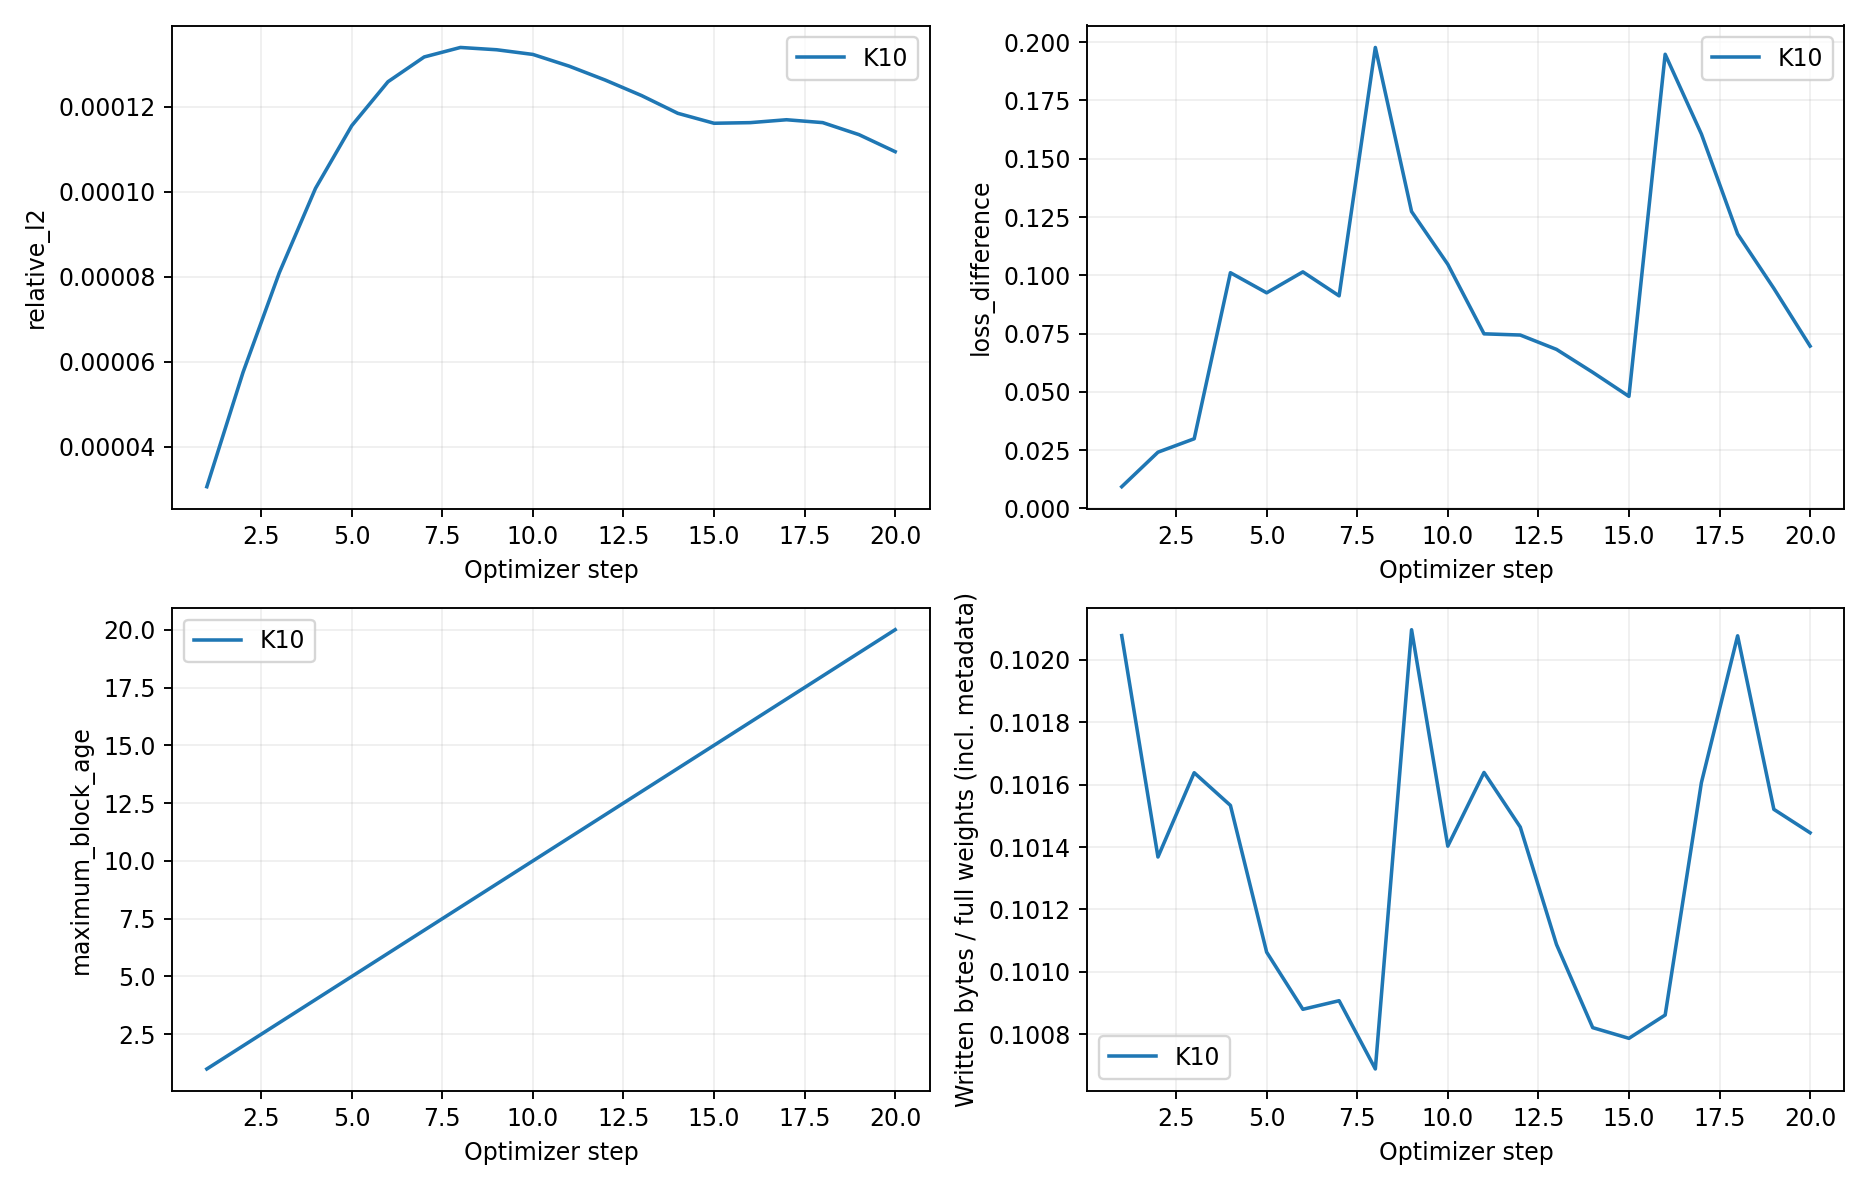
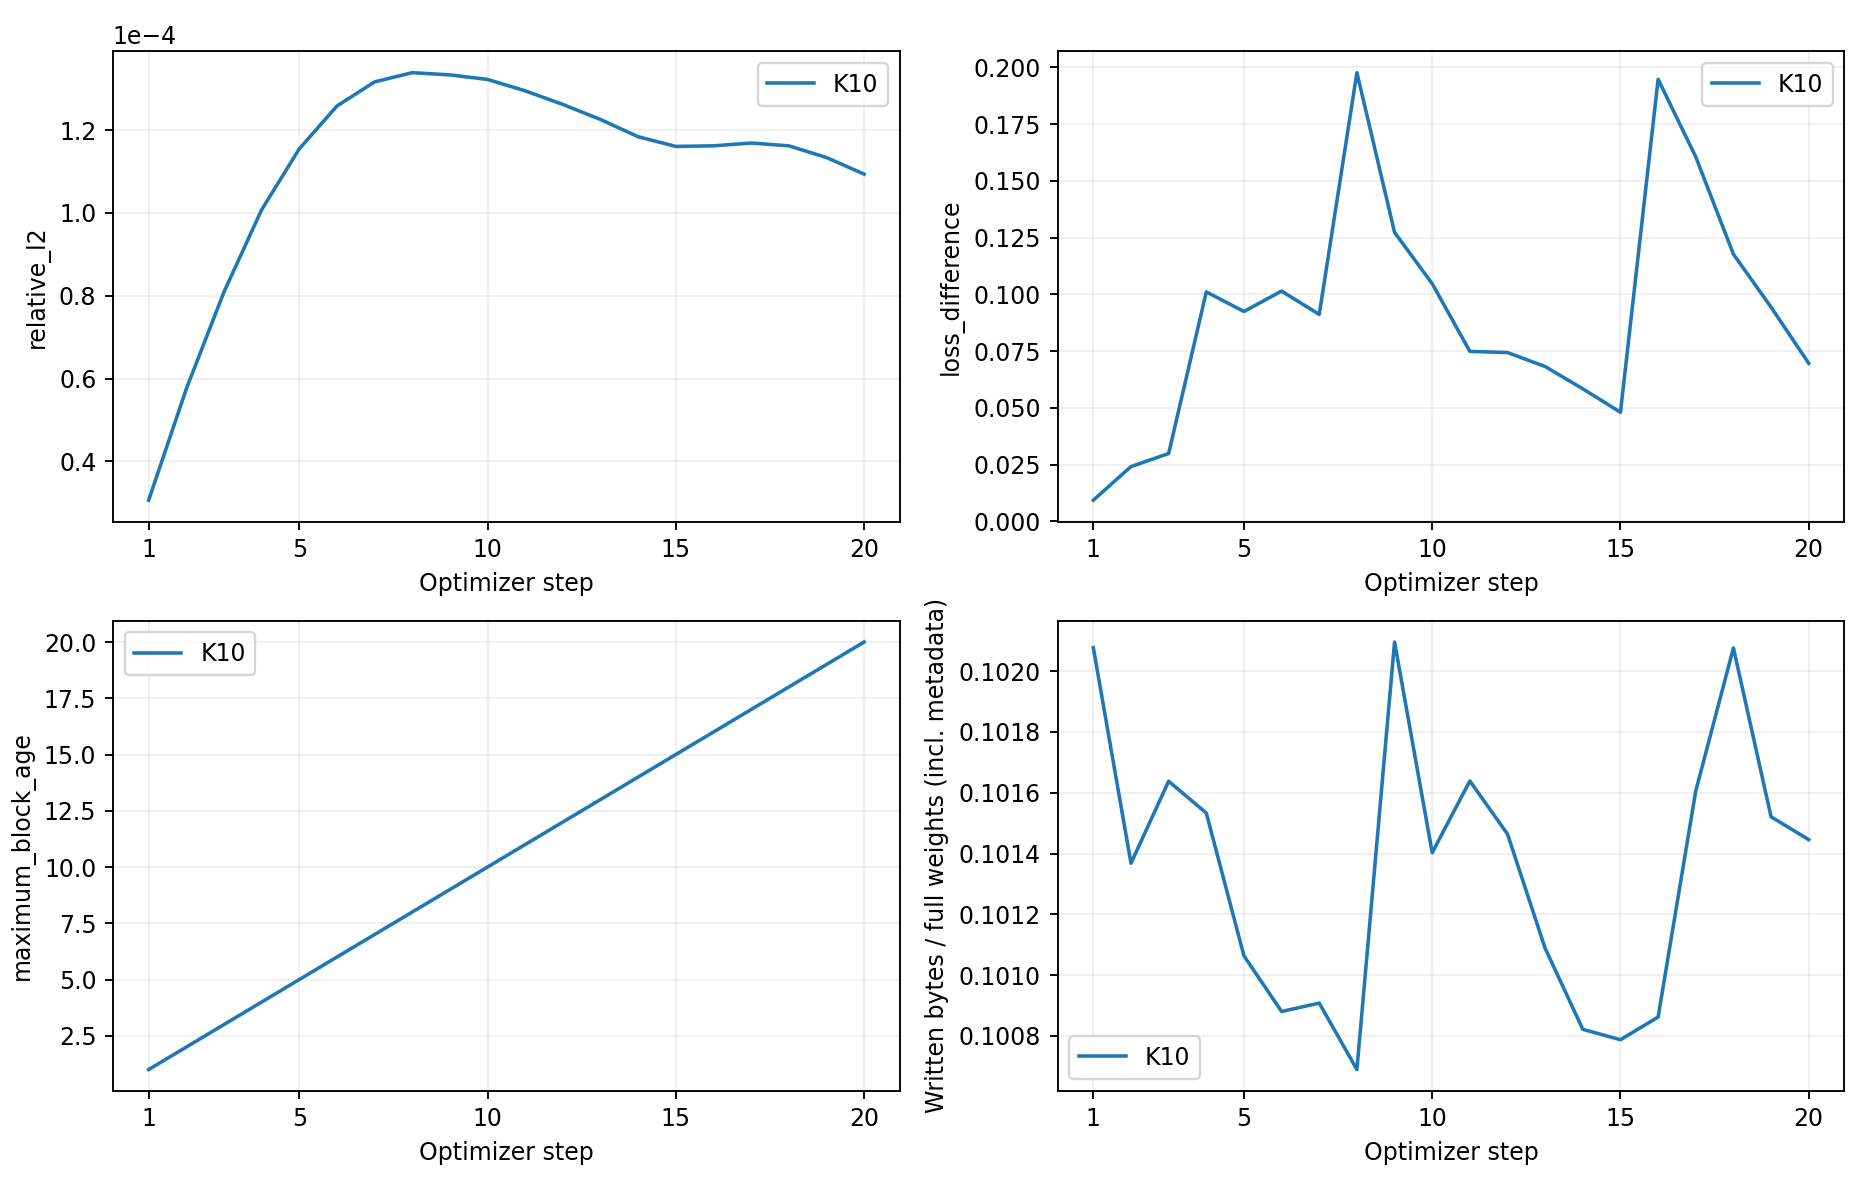
Publish incremental checkpoint progress and measured evidence

diff --git a/results/incremental-phase1-20260916/REPORT.md b/results/incremental-phase1-20260916/REPORT.md
@@ -114,6 +114,10 @@ HBM 导出表只有本次采集汇总：[{"Device_id": "0", "Metric": "Average",
 
 ![fidelity-curves.png](figures/fidelity-curves.png)
 
+![fidelity-layers-k10.png](figures/fidelity-layers-k10.png)
+
+![fidelity-block-ages.png](figures/fidelity-block-ages.png)
+
 ## 已测链路分段
 
 | 组 | 评分/ms | 全局选择/ms | 打包流/ms | D2H 流/ms | payload 校验/ms | 上次提交等待/ms |
